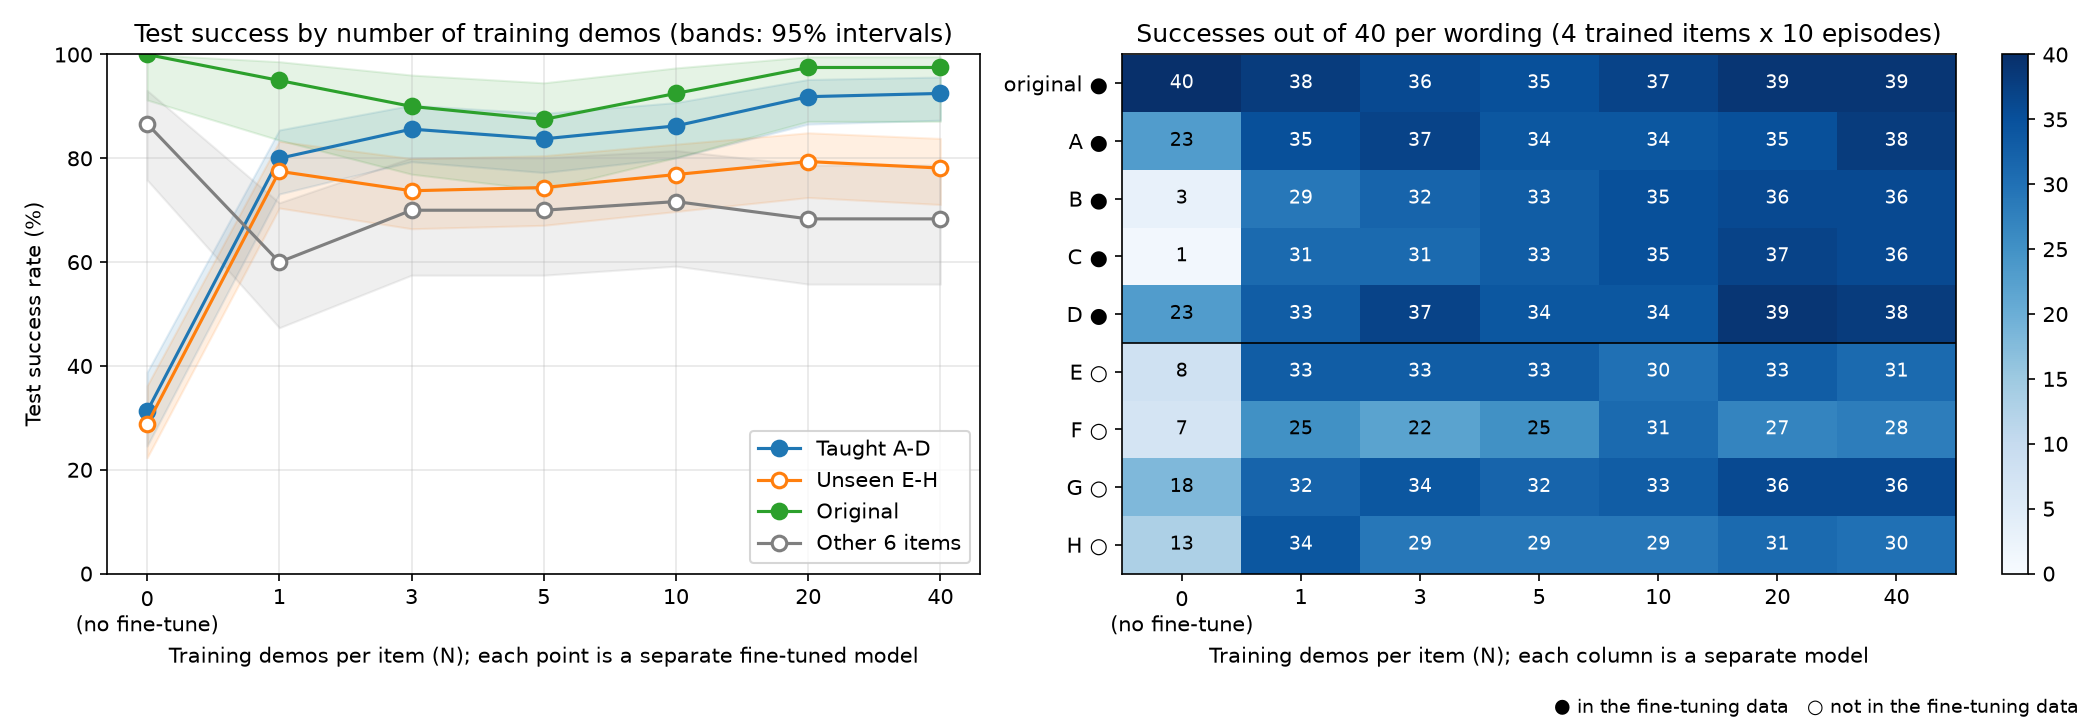
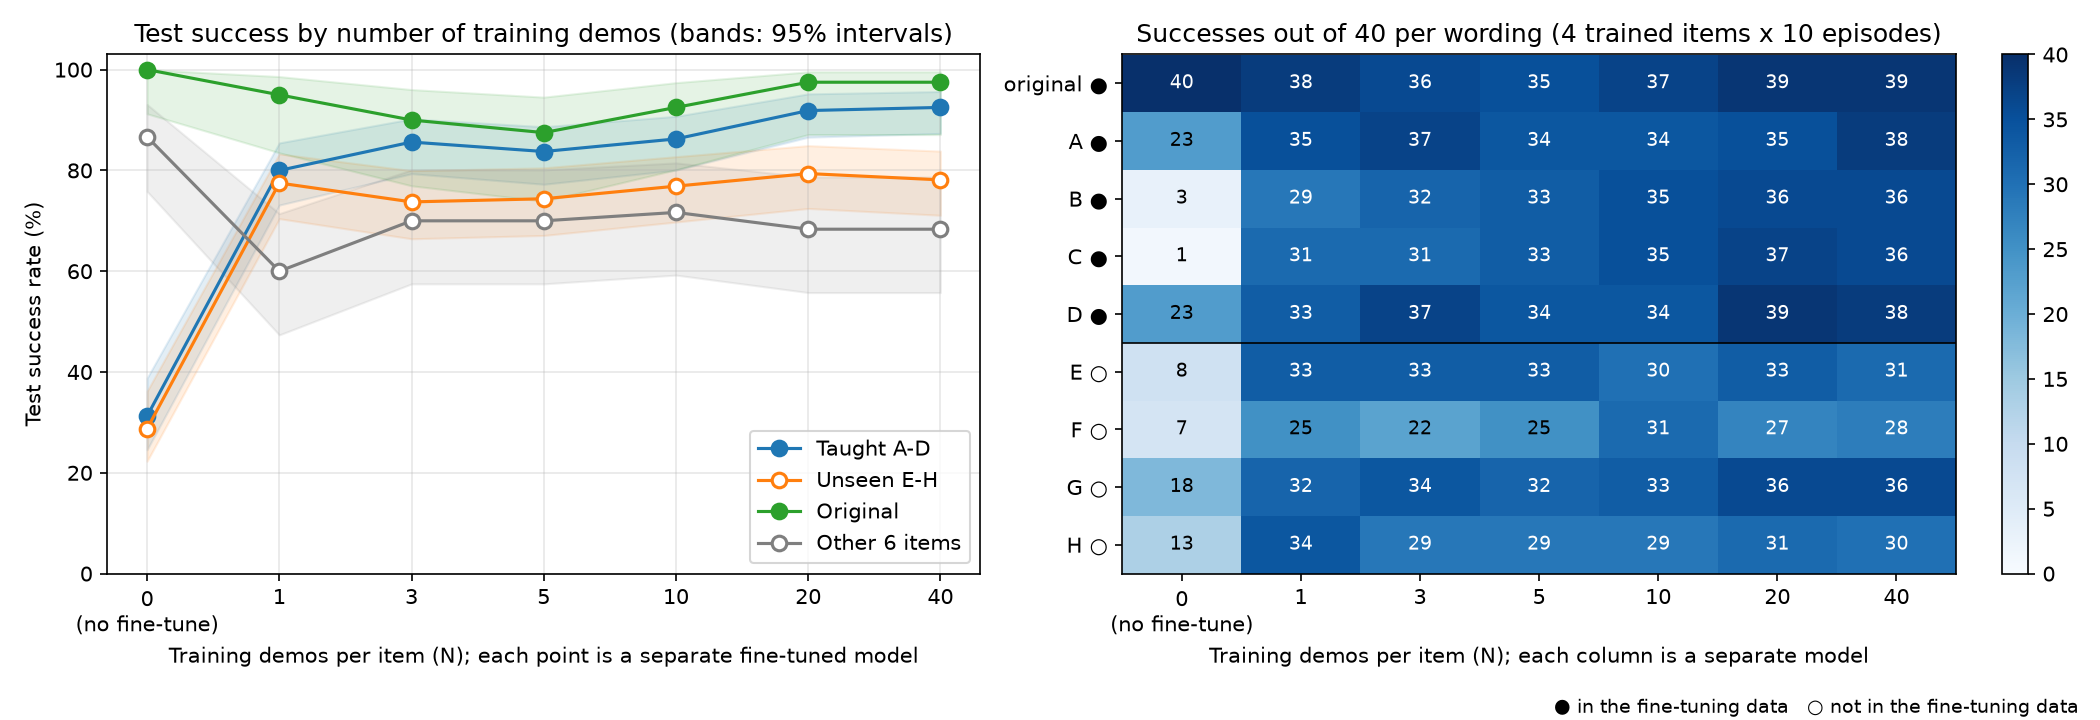
Keep 100% markers visible in the Week 2 success chart

diff --git a/dev-challenge/week-2/tools/analyze.py b/dev-challenge/week-2/tools/analyze.py
@@ -214,7 +214,8 @@ def main() -> None:
         ax.set_xticks(xs, n_ticks)
         ax.set_xlabel("Training demos per item (N); each point is a separate fine-tuned model")
         ax.set_ylabel("Test success rate (%)")
-        ax.set_ylim(0, 100)
+        ax.set_ylim(0, 103)  # headroom so markers at 100% are not cut off
+        ax.set_yticks(range(0, 101, 20))
         ax.grid(alpha=0.3)
         ax.legend(loc="lower right")
         ax.set_title("Test success by number of training demos (bands: 95% intervals)")
